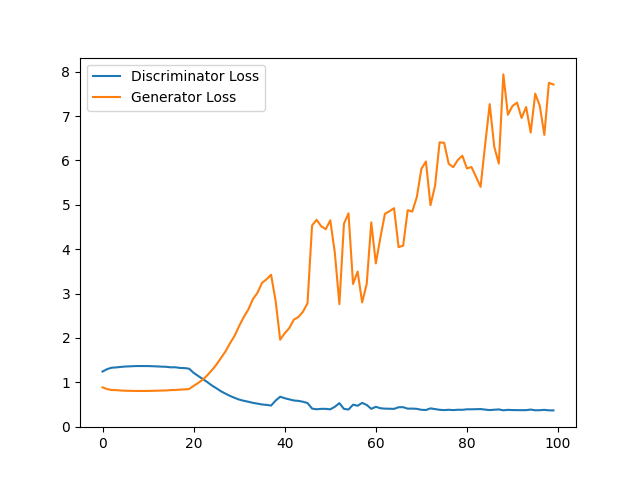
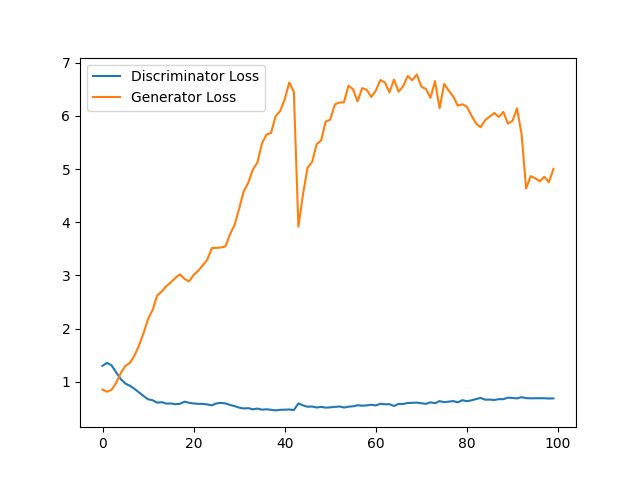
clip gradient & stucture models

diff --git a/GAN.py b/GAN.py
@@ -102,13 +102,13 @@ def G_train(x):
     G_loss.backward()
 
     # Clip gradients for generator
-    clip_gradients(G)
+    clip_gradients(G, max_norm=0.5)
     G_optimizer.step()
 
     return G_loss.item()
 
 # GAN training
-num_epochs = 100
+num_epochs = 300
 start_time = time.time()  # Mesurer le temps total
 
 D_losses, G_losses = [], []  # Pour enregistrer toutes les pertes
